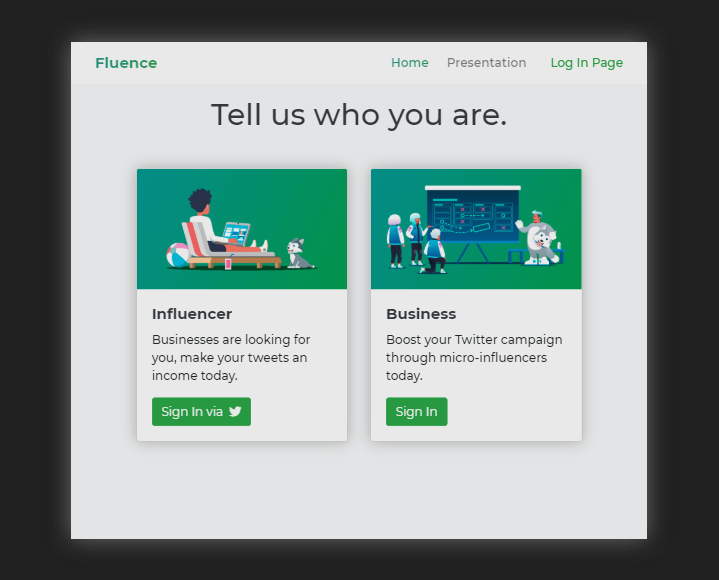
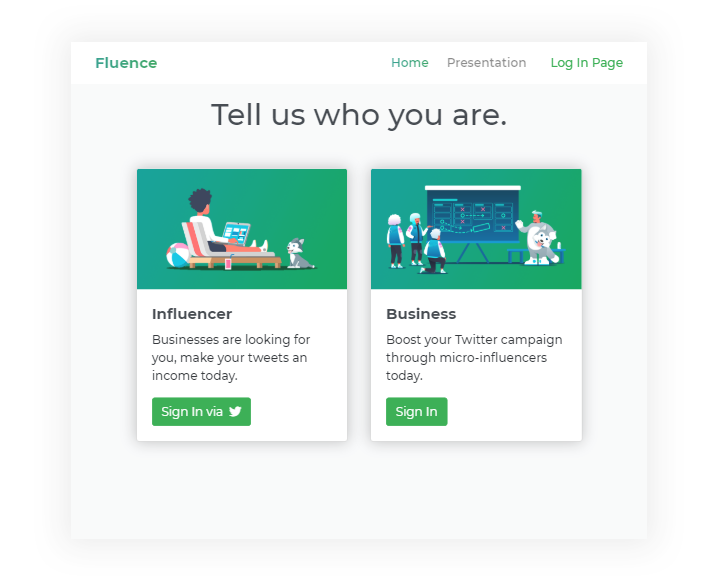
Light Theme Major Update

diff --git a/index.html b/index.html
@@ -80,8 +80,7 @@
         <img class="img-fluid mx-auto d-block" src="images/profile.png" data-aos="fade-right" data-aos-duration="1000">
       </div>
       <div class="col-lg-7 col-md-7 text-center pb-5" data-aos="fade-left" data-aos-duration="1000">
-        <p class="text-black text-semibold display-2 pt-md-5">Hello, my name is <span
-            class="text-bold">Janar!</span></p>
+        <p class="text-black text-regular display-2 pt-md-5">Hello, my name is <span class="text-bold">Zhanarbek!</span></p>
         <!-- <h4 class="text-black text-regular">Let me tell you more about myself.</h4> -->
       </div>
     </div>
@@ -255,37 +254,36 @@
     </div>
   </div>
   <!-- END OF SKILLS -->
-  <div class="container pt-5 pb-3 box-space">
-    <hr class="bg-dark mt-5">
-    <h1 class="text-gradient display-3 text-bold">Experience.</h1>
+  <div class="container pt-5 pb-5 box-space">
+    <h1 class="text-primary display-3 text-bold">Experience.</h1>
   </div>
 
   <div class="container-fluid" style="max-width: 2560px">
     <div class="row justify-content-between">
       <div class="col-md-6 pr-md-1 pt-2">
-        <div class="card-inhanguk text-center ">
-          <h2 class="text-white text-semibold">inHanguk Startup</h2>
-          <h5 class="text-light text-regular">UI & Web Designer</h5>
+        <div class="card-inhanguk text-center">
+          <h2 class="text-black text-bold">inHanguk Startup</h2>
+          <h5 class="text-primary text-semibold">UI & Web Designer</h5>
         </div>
       </div>
       <div class="col-md-6 pl-md-1 pt-2">
         <div class="card-fluence text-center pt-5">
-          <h2 class="text-white text-semibold">JunctionX Seoul</h2>
-          <h5 class="text-white text-regular">Designer and Front-End Developer</h5>
+          <h2 class="text-black text-bold">JunctionX Seoul</h2>
+          <h5 class="text-primary text-semibold">Designer and Front-End Developer</h5>
         </div>
       </div>
     </div>
     <div class="row justify-content-between">
       <div class="col-md-6 pr-md-1 pt-2">
-        <div class="card-inhanguk text-center ">
-          <h2 class="text-white text-semibold">inHanguk Startup</h2>
-          <h5 class="text-light text-regular">UI & Web Designer</h5>
+        <div class="card-arvizon text-center ">
+          <h2 class="text-black text-bold">Internship at Arvizon Ltd.</h2>
+          <h5 class="text-primary text-semibold">UI & UX Designer</h5>
         </div>
       </div>
       <div class="col-md-6 pl-md-1 pt-2">
-        <div class="card-inhanguk text-center ">
-          <h2 class="text-white text-semibold">inHanguk Startup</h2>
-          <h5 class="text-light text-regular">UI & Web Designer</h5>
+        <div class="card-art text-center ">
+          <h2 class="text-black text-bold">Commercial Works</h2>
+          <h5 class="text-primary text-semibold">Design & Art</h5>
         </div>
       </div>
     </div>
@@ -318,6 +316,10 @@
 
       </div>
     </div>
+  </div>
+
+  <div class="container mt-5">
+
   </div>
 
 

diff --git a/css/style.css b/css/style.css
@@ -49,7 +49,7 @@ html, body, h1, h2, h3, h5, h6, p{
   background-color: #82c31b;
 }
 .text-shadow{
-  text-shadow: 0px 0px 19px rgba(0,0,0,0.17);
+  text-shadow: 0px 0px 100px rgba(82, 82, 82, 0.1);
 }
 .text-gradient{
   background: #12c2e9;  /* fallback for old browsers */
@@ -108,8 +108,29 @@ background-position-y: 60%;
 background-position-x: 50%;
 background-repeat: no-repeat;
 background-size: contain;
-background-color: #212121;
+background-color: #FFFFFF;
 }
+
+.card-arvizon{
+height: 550px;
+margin: 0, 0, 10px, 10px;
+padding-top: 40px;
+background-image: url(/images/arvizon-card.png);
+background-position: center;
+background-repeat: no-repeat;
+background-size: cover;
+}
+
+.card-art{
+height: 550px;
+margin: 0, 0, 10px, 10px;
+padding-top: 40px;
+background-image: url(/images/art-card.png);
+background-position: center;
+background-repeat: no-repeat;
+background-size: cover;
+}
+
 @media (max-width: 768px) {
 .card-fluence{
   background-image: url(/images/fluence-card-sm.png);
